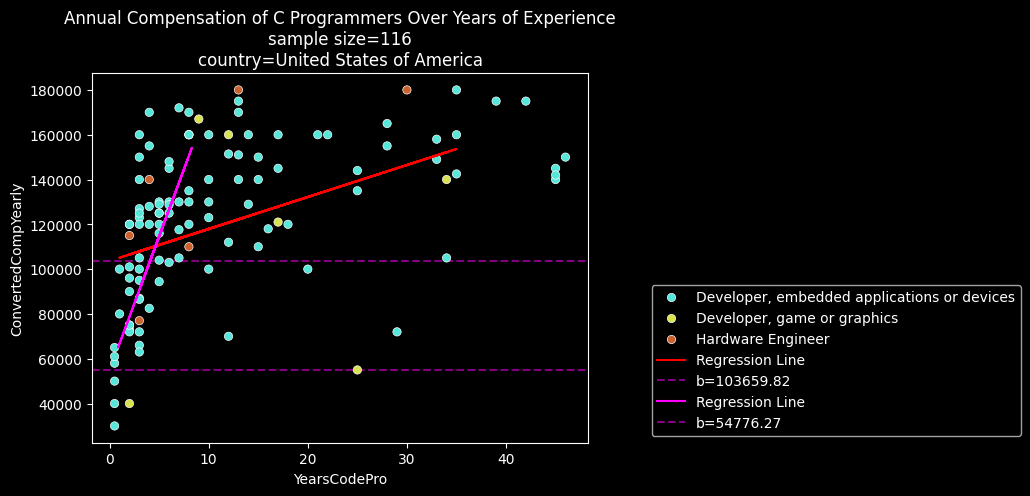
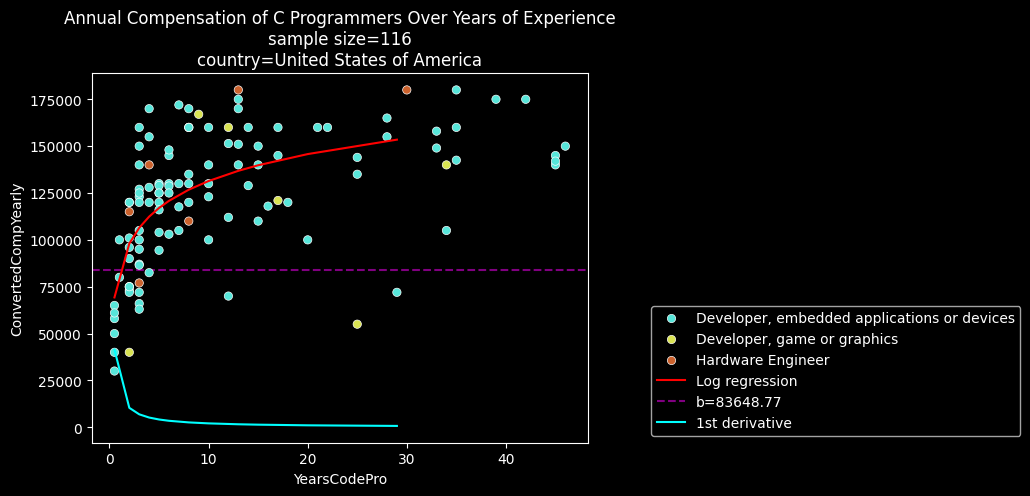
Updated README and images for logarithmic regression.

diff --git a/README.md b/README.md
@@ -25,75 +25,43 @@ The motivation for project is satisfying a class assignment. Eventually, an inte
 
 The models generated by the notebook become less reliable with years of experience greater than 10 or annual incomes greater than $200,000.
 
-Each chart comes with two regression lines. Red is the default regression line that has not been tuned. The other is an attempt to better fit the data by either transforming or shifting x.
-
-The transformation is typically
-
-    y = m * log(x) + b
-
-where the base is a parameter. 
-
-Each model had different changes of base applied to the log function.
+Each chart has a red line for the logarithmic regression and a cyan line which is the derivative of the regression line.
 
 ### C
 
 ![graph of c programmers](images/programmers-C-United-States-of-America.png)
 
     +----------------------+
-    red regression line for C
-    coefficient = 1427.58
-    intercept = 103659.82
-    rmse = 26971.44
-    r2 score = 0.06
+    red log regression line for C
+    coefficient = 20734.28
+    intercept = 83648.77
+    rmse = 17490.15
+    r2 score = 0.75
     sample predictions:
-    [[125073.46117519]
-    [107942.54574181]
-    [109370.12202793]]
-    +----------------------+
-    +----------------------+
-    magenta regression line for C
-    coefficient = 11973.47
-    intercept = 54776.27
-    rmse = 21198.61
-    r2 score = 0.57
-    sample predictions:
-    [[132396.26294684]
-    [119937.35465744]
-    [ 64985.1549115 ]]
+    [[ 98020.67915334]
+    [106427.70806024]
+    [106427.70806024]]
     +----------------------+
 
-For C programmers, a linear model fits well but not great having an r2 score of 0.57. Junior level positions earn roughly $54,776. Their income progresses $11,973 with each year of experience.
+C developers have an income starting around $83,648.77. The model can be off by $17,490.15. With an r2 score of 0.75, the model can make good predictions.
 
 ### Python
 
 ![graph of python programmers](images/programmers-Python-United-States-of-America.png)
 
     +----------------------+
-    red regression line for Python
-    coefficient = 2573.62
-    intercept = 123479.15
-    rmse = 39759.45
-    r2 score = 0.34
+    red log regression line for Python
+    coefficient = 28995.42
+    intercept = 91543.33
+    rmse = 30814.08
+    r2 score = 0.65
     sample predictions:
-    [[126052.77118246]
-    [174951.60602361]
-    [187819.7204555 ]]
-    +----------------------+
-    +----------------------+
-    cyan regression line for Python
-    coefficient = 10378.53
-    intercept = 82957.69
-    rmse = 42374.26
-    r2 score = 0.38
-    sample predictions:
-    [[139882.01866593]
-    [117229.55243376]
-    [137277.30441955]]
+    [[123398.04864925]
+    [123398.04864925]
+    [131739.51024811]]
     +----------------------+
 
-For data scientists, analysts, or engineers, a linear model is a moderate fit at best as the r2 score is around 0.30. There appears to be divergence at the 10 year mark in their careers. This may be the result of their field (advertising, finance, bio/medical, and so on).
-
-Entry or junior level professionals generally have an income of $82,957 or $123,479. Their annual income increases by $10,378 or $2573 each year. 
+Python developers have an income starting around $91,543.33. The model can be off by $30,814.08. With an r2 score of 0.65, the model can also make good predictions but not as well with C developers.
 
 ## Acknowledgements
 
